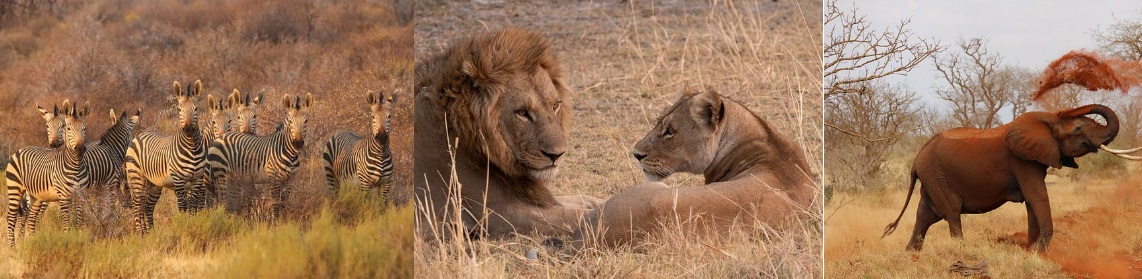
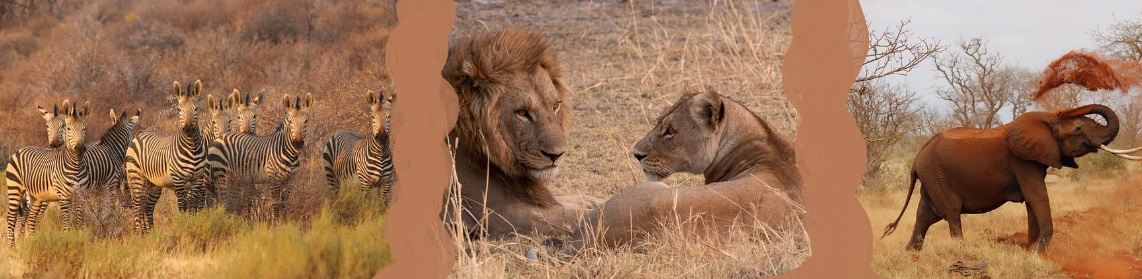
Modifications ramifications, ajout images

Changed region(s): [[0.6743, 0.0, 0.7662, 1.0], [0.3065, 0.0, 0.4291, 1.0]]

diff --git a/html/habitats_ArcadiaZooWebsite.html b/html/habitats_ArcadiaZooWebsite.html
@@ -1,0 +1,19 @@
+<!DOCTYPE html>
+<html lang="fr">
+<head>
+    <meta charset="UTF-8">
+    <meta name="viewport" content="width=device-width, initial-scale=1.0">
+    <title>Zoo d'Arcadia</title>
+    <link rel="stylesheet" href="/ArcadiaZooWebsite.css">
+</head>
+
+<section>
+    <h1>Habitats</h1>
+    <div class="habitat">
+        <h2>La Savane</h2>
+        <p>Nous sommes heureux de vous présenter ici les animaux sauvages de la savane, dans une reproduction fidèle de leur 
+            environnement naturel.</p>
+            <img src="/pictures_library/savane2.jpg" alt="Image de la savane">
+    </div>
+    <!-- Ajouter d'autres habitats ici -->
+</section>

diff --git a/html/1main_ArcadiaZooWebsite.html b/html/1main_ArcadiaZooWebsite.html
@@ -27,17 +27,6 @@
         </section>
 
         <section>
-            <h2>Habitats</h2>
-            <div class="habitat">
-                <h3>La Savane</h3>
-                <img src="/pictures_library/savane.jpg" alt="Image de la savane">
-                <p>Nous sommes heureux de vous présenter ici les animaux sauvages de la savane, dans une reproduction fidèle de leur 
-                    environnement naturel.</p>
-            </div>
-            <!-- Ajouter d'autres habitats ici -->
-        </section>
-
-        <section>
             <h2>Services</h2>
             <div class="service">
                 <h3>Restauration</h3>
